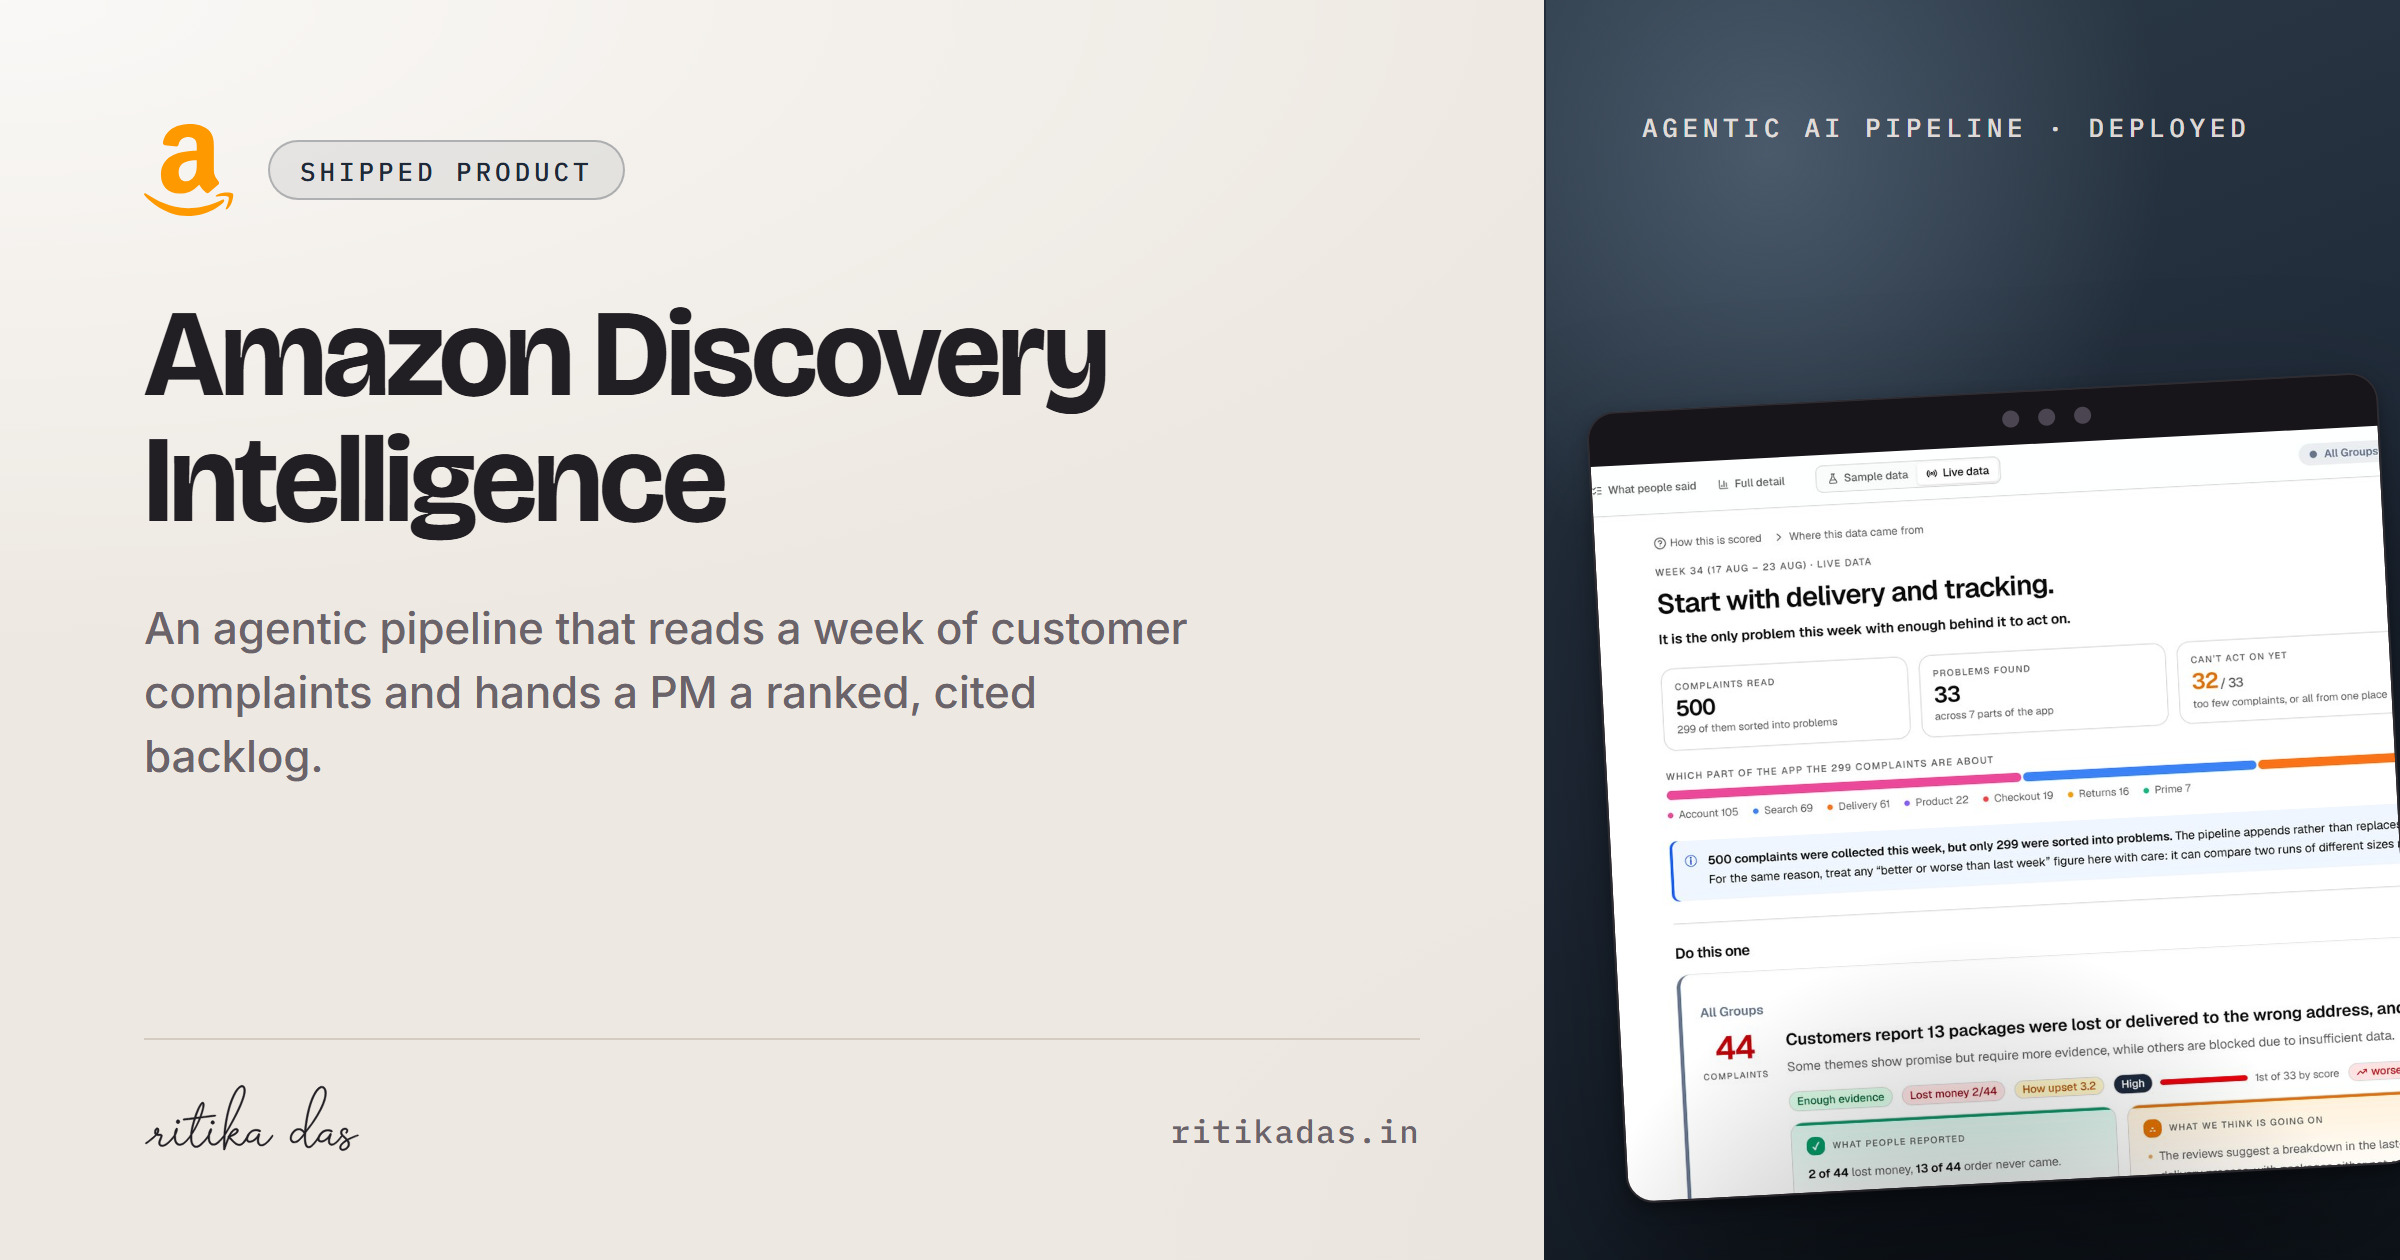
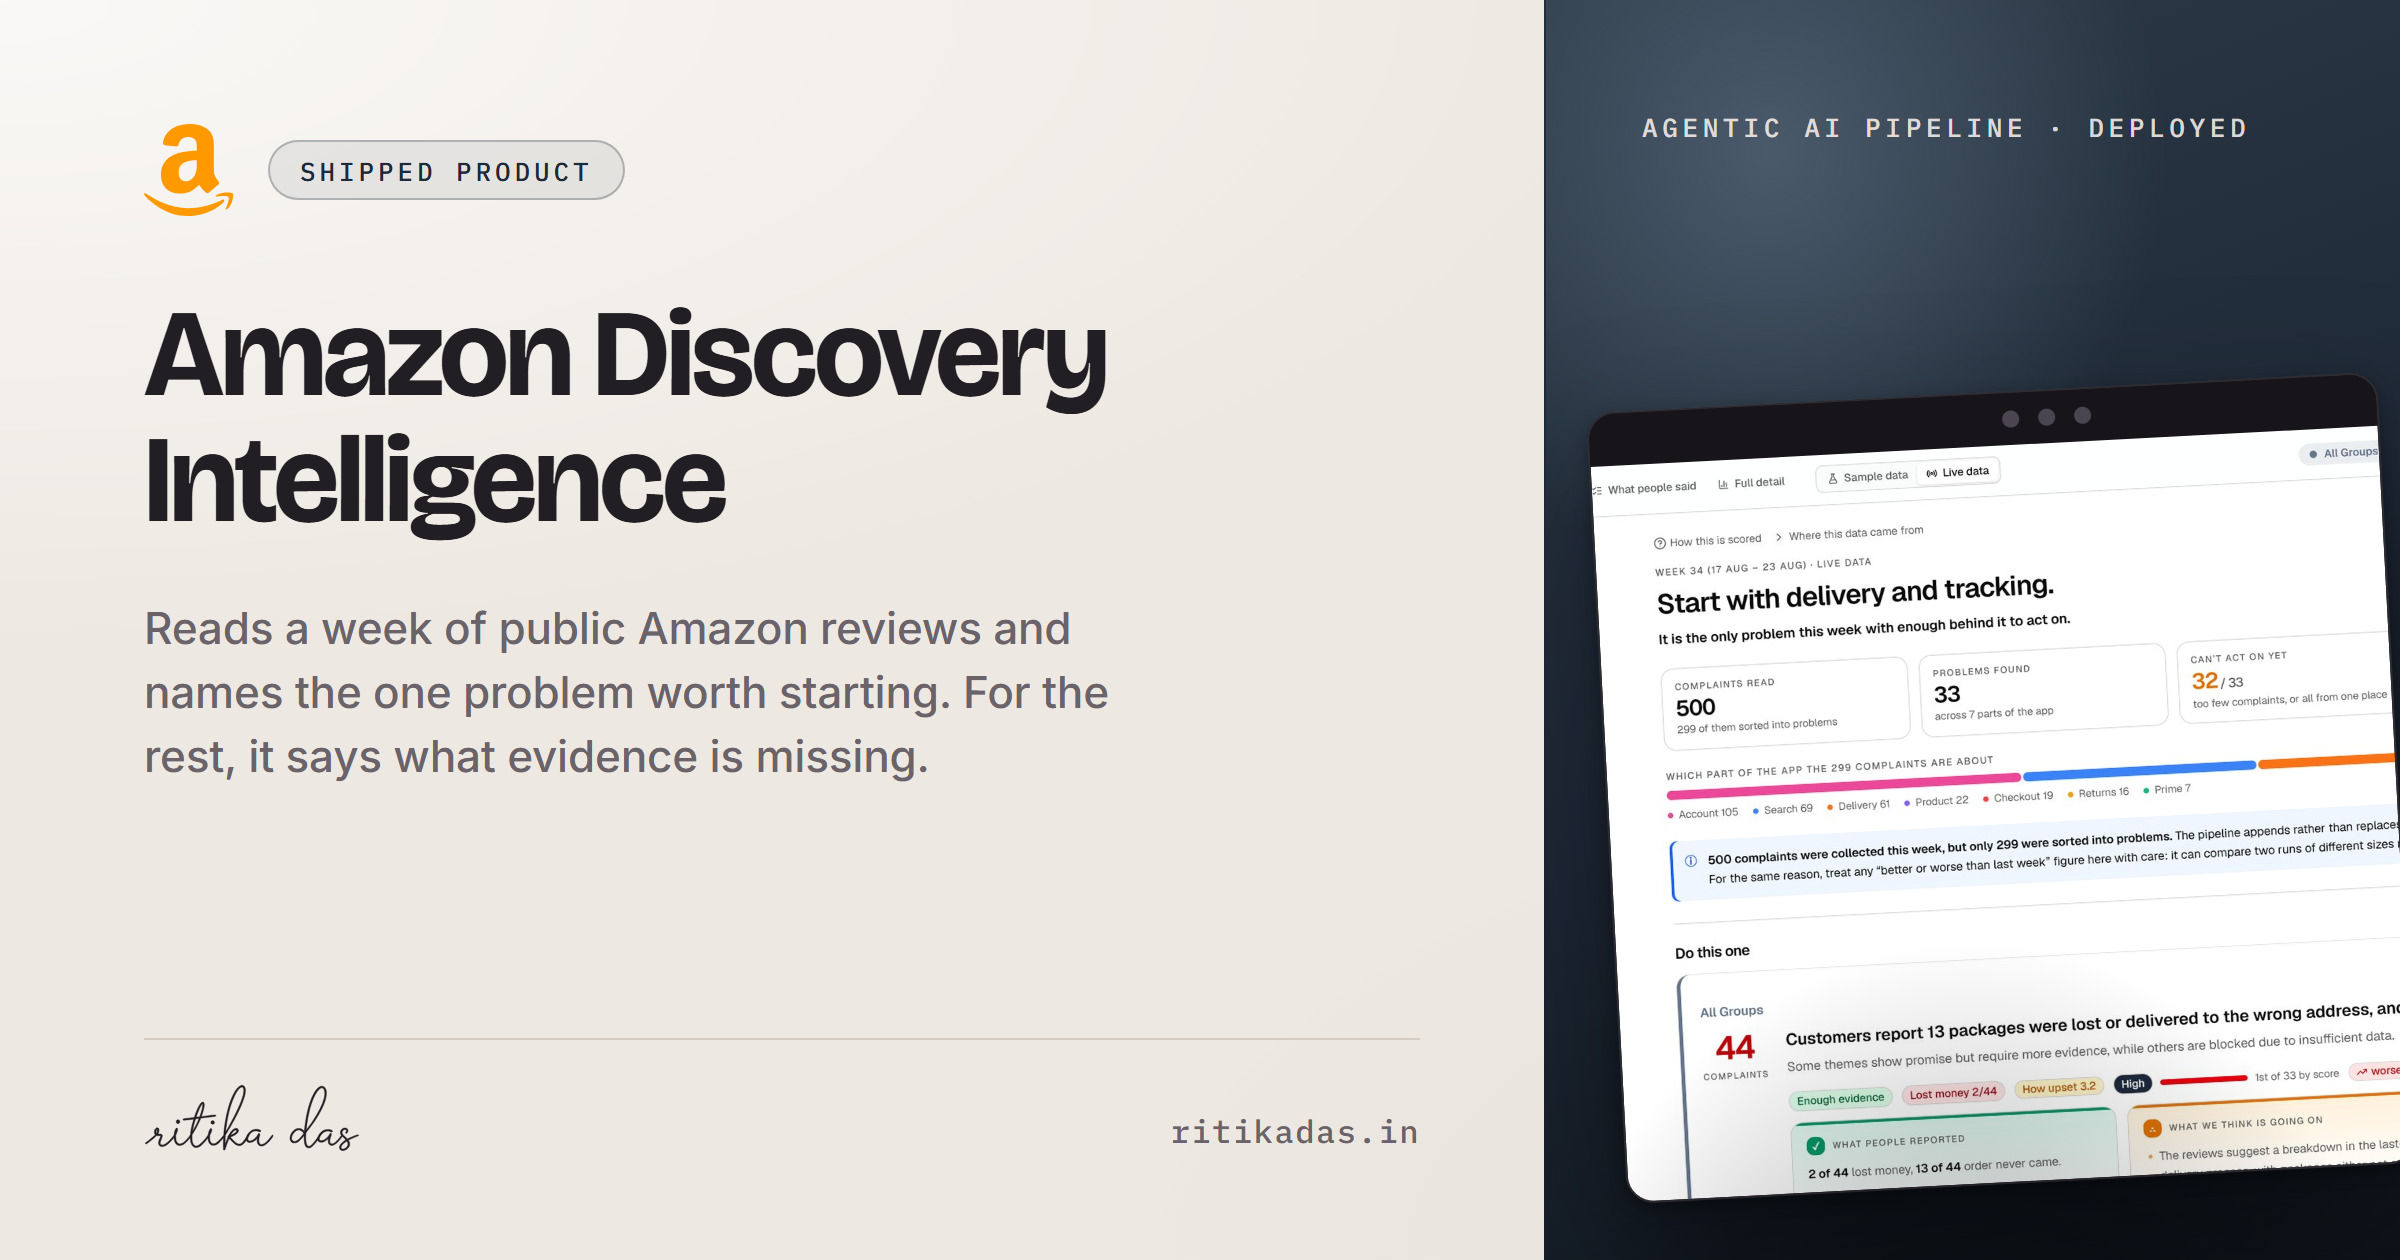
Stop the preview card promising a ranked backlog
The card read "hands a PM a ranked, cited backlog". The case study now spends a
section arguing that a ranked list is still a backlog and hands the queue
straight back, so the picture that unfurls on LinkedIn was selling the thing
the page argues against.

It now says what the product actually does: names the one problem worth
starting, and for the rest says what evidence is missing.

All three variants rebuilt, so the og, the square and the homepage card carry
the same sentence, the light dashboard and Amazon's own mark.

Changed region(s): [[0.0625, 0.4643, 0.5, 0.619]]

diff --git a/writing/amazon/index.html b/writing/amazon/index.html
@@ -12,7 +12,7 @@
 <meta property="og:url" content="https://ritikadas.in/writing/amazon/">
 <meta property="og:title" content="What to work on Monday">
 <meta property="og:description" content="A week of customer complaints turned into one decision a product manager can act on. What it decides, what it costs, and the week it got badly wrong.">
-<meta property="og:image" content="https://ritikadas.in/assets/og/amazon-og.jpg?v=4">
+<meta property="og:image" content="https://ritikadas.in/assets/og/amazon-og.jpg?v=5">
 <meta property="og:image:type" content="image/jpeg">
 <meta property="og:image:width" content="2400">
 <meta property="og:image:height" content="1260">
@@ -20,7 +20,7 @@
 <meta name="twitter:card" content="summary_large_image">
 <meta name="twitter:title" content="What to work on Monday">
 <meta name="twitter:description" content="A week of customer complaints turned into one decision a product manager can act on. What it decides, what it costs, and the week it got badly wrong.">
-<meta name="twitter:image" content="https://ritikadas.in/assets/og/amazon-og.jpg?v=4">
+<meta name="twitter:image" content="https://ritikadas.in/assets/og/amazon-og.jpg?v=5">
 <link rel="canonical" href="https://ritikadas.in/writing/amazon/">
 <link rel="icon" href="../../favicon.ico" sizes="32x32">
 <link rel="icon" type="image/svg+xml" href="../../favicon.svg">

diff --git a/work/amazon/index.html b/work/amazon/index.html
@@ -11,7 +11,7 @@
 <meta property="og:url" content="https://ritikadas.in/work/amazon/">
 <meta property="og:title" content="Amazon Discovery Intelligence">
 <meta property="og:description" content="An agentic pipeline that reads a week of customer complaints and hands a PM a ranked, cited backlog.">
-<meta property="og:image" content="https://ritikadas.in/assets/og/amazon-og.jpg?v=4">
+<meta property="og:image" content="https://ritikadas.in/assets/og/amazon-og.jpg?v=5">
 <meta property="og:image:type" content="image/jpeg">
 <meta property="og:image:width" content="2400">
 <meta property="og:image:height" content="1260">
@@ -19,7 +19,7 @@
 <meta name="twitter:card" content="summary_large_image">
 <meta name="twitter:title" content="Amazon Discovery Intelligence">
 <meta name="twitter:description" content="An agentic pipeline that reads a week of customer complaints and hands a PM a ranked, cited backlog.">
-<meta name="twitter:image" content="https://ritikadas.in/assets/og/amazon-og.jpg?v=4">
+<meta name="twitter:image" content="https://ritikadas.in/assets/og/amazon-og.jpg?v=5">
 <meta name="theme-color" content="#EDE8E1" media="(prefers-color-scheme: light)">
 <meta name="theme-color" content="#1A171C" media="(prefers-color-scheme: dark)">
 <link rel="icon" href="../../favicon.ico" sizes="32x32">

diff --git a/preview/sections/index.html b/preview/sections/index.html
@@ -144,7 +144,7 @@ section.band .sec-head{background:color-mix(in srgb, var(--soft-band) 78%, trans
 
       <div class="card work-card reveal" data-project="amazon">
         <figure class="card-art">
-          <img src="../../assets/og/amazon-card.jpg?v=8" alt="" width="1000" height="1000" loading="lazy" decoding="async" />
+          <img src="../../assets/og/amazon-card.jpg?v=9" alt="" width="1000" height="1000" loading="lazy" decoding="async" />
         </figure>
         <div class="card-tags"><span class="tag-type">Product</span><span class="tag live">&#9679; Deployed</span><span class="tag">Multi-agent pipeline</span></div>
         <h3><a class="card-link" href="../../work/amazon/">Amazon Discovery <span class="nb">Intelligence <span class="arr">&#8599;</span></span></a></h3>

diff --git a/index.html b/index.html
@@ -197,7 +197,7 @@
 
       <div class="card work-card reveal" data-project="amazon">
         <figure class="card-art">
-          <img src="assets/og/amazon-card.jpg?v=8" alt="" width="1000" height="1000" loading="lazy" decoding="async" />
+          <img src="assets/og/amazon-card.jpg?v=9" alt="" width="1000" height="1000" loading="lazy" decoding="async" />
         </figure>
         <div class="card-tags"><span class="tag-type">Product</span><span class="tag live">&#9679; Deployed</span><span class="tag">Multi-agent pipeline</span></div>
         <h3><a class="card-link" href="work/amazon/">Solo building a pipeline that turns a week of Amazon reviews into one <span class="nb">decision <span class="arr">&#8599;</span></span></a></h3>

diff --git a/tools/og-card.py b/tools/og-card.py
@@ -135,8 +135,11 @@ ARTICLES = {
         # as analysis of the company rather than anything endorsed by it.
         "kicker": "Shipped product",
         "title": "Amazon Discovery Intelligence",
-        "hook": "An agentic pipeline that reads a week of customer complaints and "
-                "hands a PM a ranked, cited backlog.",
+        # Not "a ranked, cited backlog" any more. The case study now argues that a
+        # ranked list is still a backlog and hands the queue straight back, so the
+        # card cannot promise the thing the page spends a section arguing against.
+        "hook": "Reads a week of public Amazon reviews and names the one problem "
+                "worth starting. For the rest, it says what evidence is missing.",
         "byline": "Agentic AI pipeline · deployed",
         "brand": "#1F2937", "rgb": "31,41,55",
         "field": ("#4A5A6B", "#2C3A47", "#1F2937", "#0E141B"),
